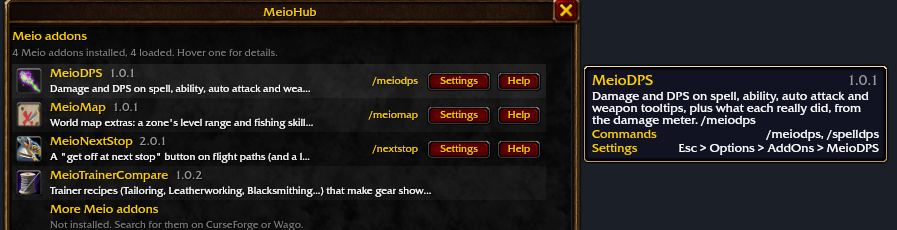
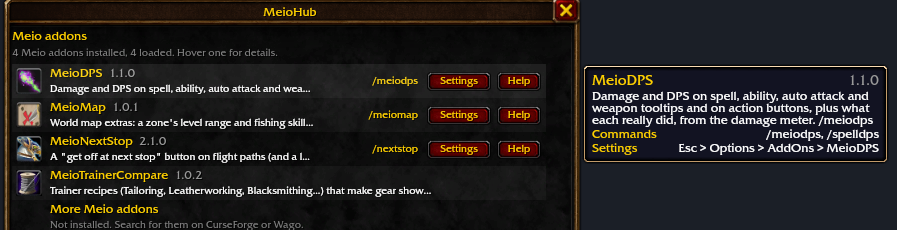
1.1.0: newer version notes, Meio addon error notes, Meio DPS summary

diff --git a/README.md b/README.md
@@ -18,17 +18,19 @@ slash command.
 - Hover a row for what the addon does, all its commands and where its settings are
 - Addons you've turned off are shown greyed, with how to turn them back on
 - Below them, the Meio addons you don't have yet, with a line on what each does
+- When a guildmate or groupmate has a newer version of one of your Meio addons, one chat
+  line says so and its row shows "1.2.0 out". MeioHub shares your Meio versions with your
+  guild and group in a hidden addon message, never in chat
+- When one of your Meio addons hits a Lua error, one chat line names it with the page to
+  report it on; its row counts the errors and the hover shows the message
 
-No settings of its own. The same list is in Esc > Options > AddOns > MeioHub.
+The same list is in Esc > Options > AddOns > MeioHub.
 
 - `/meiohub` (or `/mh`) opens or closes the window, also from the minimap addon menu
 - `/meiohub reset` puts the window back in the middle
+- `/meiohub versions on|off` turns the newer version notes on or off (off also stops sharing)
+- `/meiohub errors on|off` turns the error notes on or off
 - `/meiohub help` lists the commands
-
-## Coming soon
-
-- A note when one of your Meio addons has a newer version
-- When a Meio addon hits an error, a chat line says which one and where to report it
 
 ## Install
 

diff --git a/CHANGELOG.md b/CHANGELOG.md
@@ -1,5 +1,15 @@
 # Meio Hub
 
+## 1.1.0
+
+- Newer versions: when a guildmate or groupmate with MeioHub has a newer version of one of
+  your Meio addons, one chat line says so and its row shows "x.y.z out"
+  (`/meiohub versions off` stops it)
+- Errors: when one of your Meio addons hits a Lua error, one chat line names it with its
+  GitHub issues page, and its row shows how many errors this session
+  (`/meiohub errors off` stops it)
+- Meio DPS's summary now mentions its numbers on action buttons
+
 ## 1.0.2
 
 - Knows every Meio addon released so far (25), so the ones you don't have show under "More
